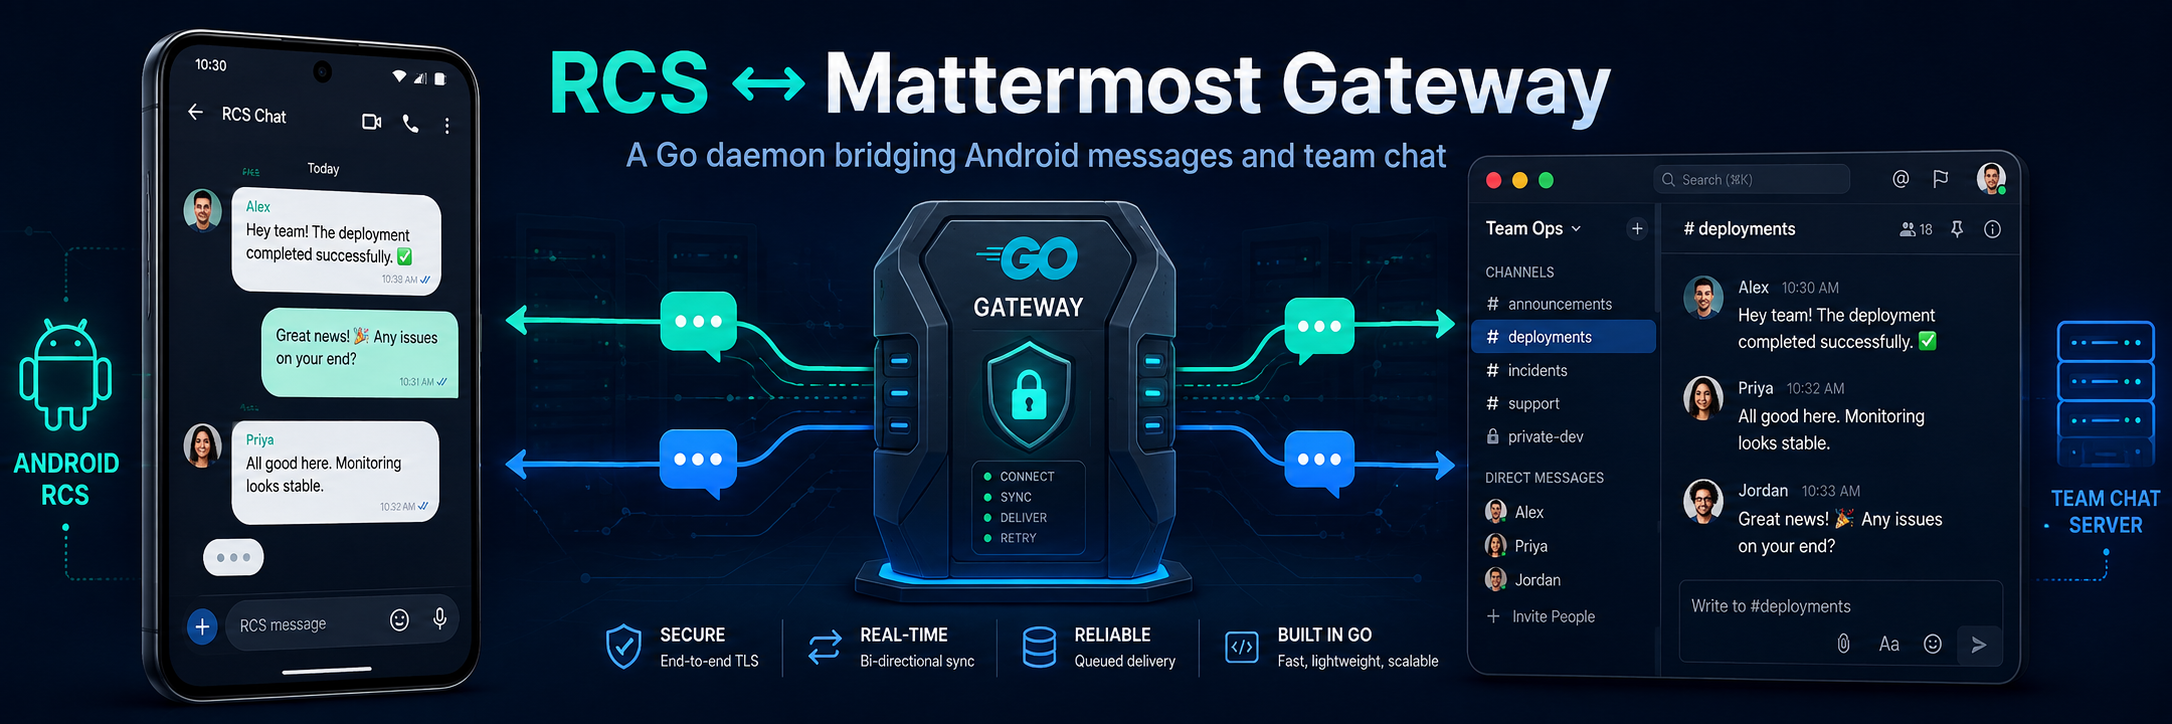
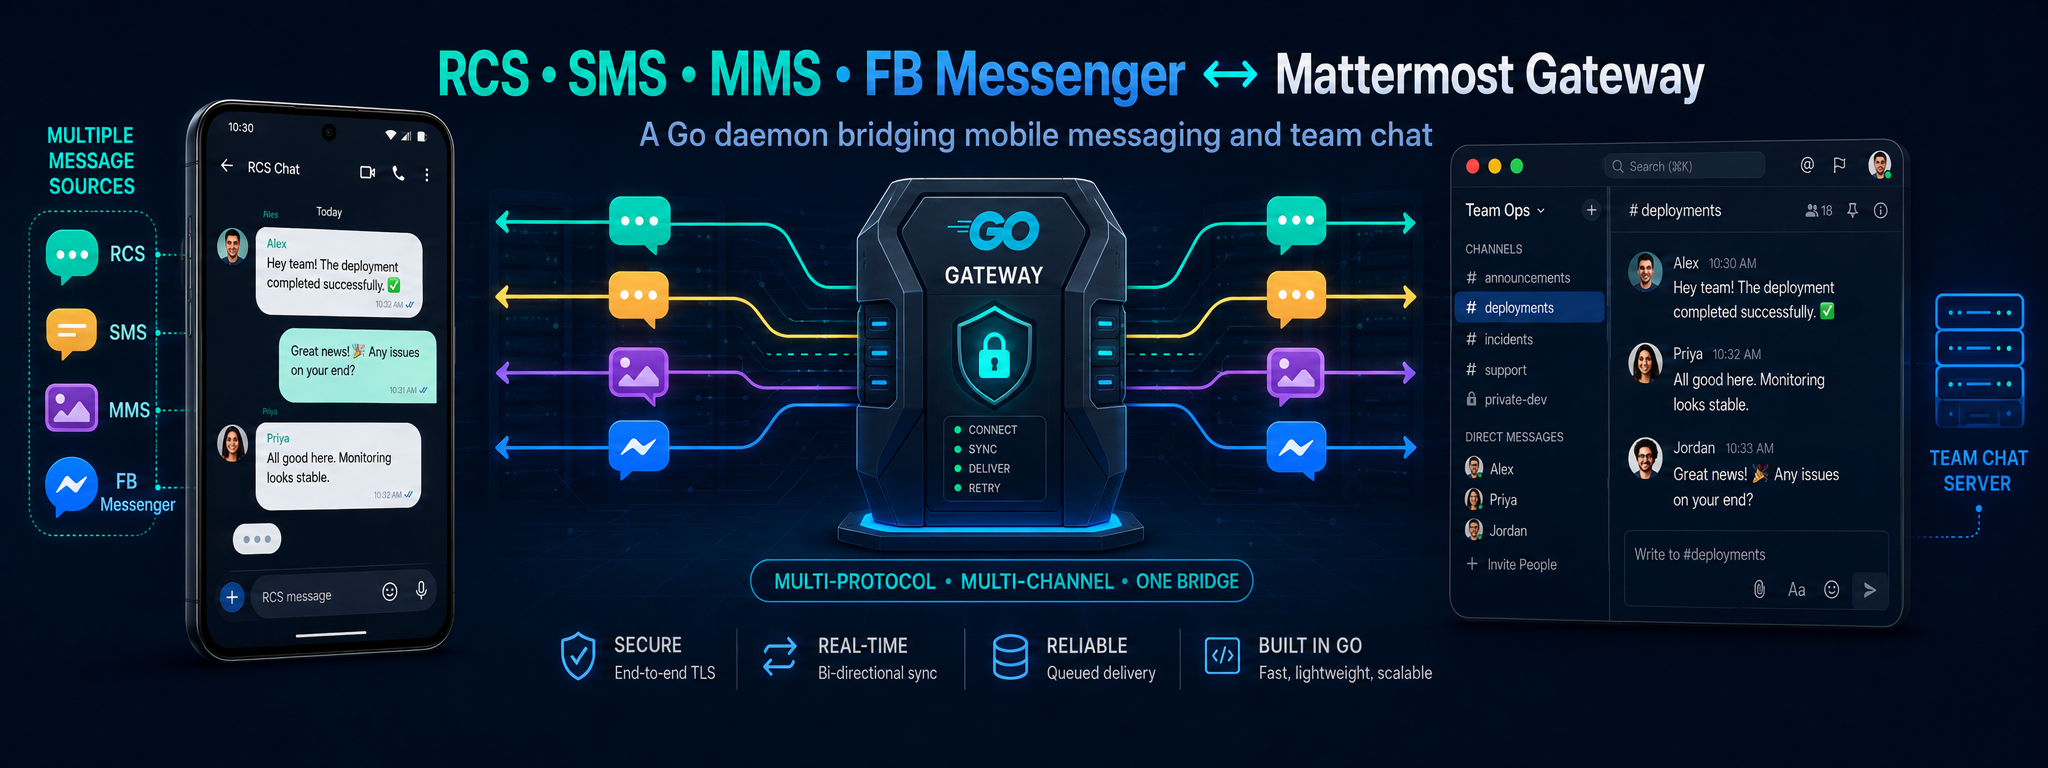
completed tool rebranding

diff --git a/README.md b/README.md
@@ -1,23 +1,26 @@
 <p align="center">
-  <img src="images/rcs_gateway_banner.png" alt="RCS ↔ Mattermost Gateway" width="100%">
+  <img src="images/msggw_banner.png" alt="Messaging ↔ Mattermost Gateway" width="100%">
 </p>
 
-# rcs_gateway
+# msggw
 
-**RCS messages to Mattermost server gateway.**
+**SMS, MMS and RCS to Mattermost gateway — more messaging platforms planned.**
 
-`rcs_gateway` is a small self-hosted Go daemon (`rcs-mm_gw`) that surfaces SMS, MMS and —
-most importantly — **RCS** conversations from an Android phone inside a Mattermost server,
-and lets you reply to them straight from Mattermost.
+`msggw` is a small self-hosted Go daemon (`msg-gw`) that surfaces SMS, MMS and — most
+importantly — **RCS** conversations from an Android phone inside a Mattermost server, and lets
+you reply to them straight from Mattermost. It started life as `rcs_gateway`, focused purely on
+RCS; the project has since been renamed because the goal is broader: one gateway bridging
+several messaging platforms into Mattermost, with Facebook Messenger planned as a future
+addition.
 
 ```text
-Android phone / Google Messages
-            ⇅
-      SMS / MMS / RCS
-            ⇅
-       bridge daemon
-            ⇅
-        Mattermost
+Android phone / Google Messages          Facebook Messenger (planned)
+            ⇅                                        ⇅
+      SMS / MMS / RCS                                 ⇅
+            ⇅                                         ⇅
+                       msggw bridge daemon
+                              ⇅
+                          Mattermost
 ```
 
 ---
@@ -55,7 +58,7 @@ Android phone / Google Messages
 **Written, not yet run against a real phone.**
 
 The daemon is implemented end to end — pairing, session persistence, inbound messages,
-outbound replies, media both ways, delivery state, SQLite mappings and deduplication. It
+outbound replies, media both ways, delivery state, storage mappings and deduplication. It
 builds statically (`CGO_ENABLED=0`), passes `go vet`, and its routing, storage, configuration
 and secret-handling logic are unit-tested.
 
@@ -70,13 +73,15 @@ the known limits, and [docs/TODO.md](docs/TODO.md) for what is left.
 
 ## Building
 
-Go 1.26 or newer. The build is fully static: `modernc.org/sqlite` is a pure-Go driver, so
-there is no cgo and no libc to match at deploy time.
+Go 1.27 or newer. The default backend is fully static: `modernc.org/sqlite` is a pure-Go
+driver, so there is no cgo and no libc to match at deploy time. The optional PostgreSQL backend
+is also a pure-Go driver (`jackc/pgx`), so static builds stay static regardless of which
+storage backend a deployment picks.
 
 ```bash
 cd src
 ./build.sh --dry-run          # compile only, discard the binary
-./build.sh /opt/bin           # build to /opt/bin/rcs-mm_gw
+./build.sh /opt/bin           # build to /opt/bin/msg-gw
 go test ./...
 ```
 
@@ -85,43 +90,43 @@ go test ./...
 ## Using it
 
 ```text
-rcs-mm_gw config sample     print a starting configuration
-rcs-mm_gw config check      validate it and resolve every secret it names
-rcs-mm_gw pair              pair with Google Messages by QR code
-rcs-mm_gw daemon            run the bridge
-rcs-mm_gw status            report on the pairing, the bot and the mappings
-rcs-mm_gw logout            revoke the pairing and delete the session
+msg-gw config sample     print a starting configuration
+msg-gw config check      validate it and resolve every secret it names
+msg-gw pair              pair with Google Messages by QR code
+msg-gw daemon            run the bridge
+msg-gw status            report on the pairing, the bot and the mappings
+msg-gw logout            revoke the pairing and delete the session
 ```
 
 A first run looks like this:
 
 ```bash
-rcs-mm_gw config sample > /etc/rcs_gateway/config.json
-$EDITOR /etc/rcs_gateway/config.json
-rcs-mm_gw config check
-rcs-mm_gw pair              # scan the QR code from Google Messages on the phone
-rcs-mm_gw daemon
+msg-gw config sample > /etc/msggw/config.json
+$EDITOR /etc/msggw/config.json
+msg-gw config check
+msg-gw pair              # scan the QR code from Google Messages on the phone
+msg-gw daemon
 ```
 
-`pair` shows a QR code — on the phone, **Google Messages → Settings → Device pairing → QR
-code scanner**. Each code is valid for 30 seconds and is refreshed automatically. Once the
-phone accepts it, the daemon reconnects with the stored session and prints the conversation
-list, which is the phase-1 success criterion proving the session actually works.
+`pair` shows a QR code — on the phone, **Google Messages → Settings → Device pairing → QR code
+scanner**. Each code is valid for 30 seconds and is refreshed automatically. Once the phone
+accepts it, the daemon reconnects with the stored session and prints the conversation list,
+which is the phase-1 success criterion proving the session actually works.
 
 On a terminal that cannot render a QR code, `pair --print-url` prints the URL instead.
 
-`status` reports what is on disk and, unless given `--offline`, checks that the Google
-session is still honoured and that the Mattermost token still authenticates.
+`status` reports what is on disk and, unless given `--offline`, checks that the Google session
+is still honoured and that the Mattermost token still authenticates.
 
 ---
 
 ## Configuration
 
-One JSON file, looked up at `--config`, then `/etc/rcs_gateway/config.json`, then
-`$XDG_CONFIG_HOME/rcs_gateway/config.json`. Full reference:
+One JSON file, looked up at `--config`, then `/etc/msggw/config.json`, then
+`$XDG_CONFIG_HOME/msggw/config.json`. Full reference:
 **[docs/CONFIGURATION.md](docs/CONFIGURATION.md)**.
 
-Two parts are worth knowing about up front.
+Three parts are worth knowing about up front.
 
 ### Where messages land is a routing decision
 
@@ -149,26 +154,48 @@ conversations somewhere other than the default:
 Phone numbers are compared with punctuation ignored, so `+1 (514) 555-1212` and
 `+15145551212` are the same number.
 
+### Storage backend is a choice, not a fixture
+
+The bridge keeps its mappings — which Mattermost thread stands for which conversation, and
+which post stands for which message — behind `database/sql`, so the backend is pluggable:
+
+```text
+sqlite    (default)  a single file under state_dir; what the daemon has actually
+                      been run against, sufficient for one person's message volume
+postgres              for an operator who wants the state store on its own server,
+                      under its own backup and HA story
+```
+
+```json
+"database_driver": "postgres",
+"database_dsn_ref": "vault:secrets/msggw#database_dsn"
+```
+
+Switching backends does not migrate existing data — each keeps its own schema version, so pick
+one before first run. See [Storage backend](docs/CONFIGURATION.md#storage-backend) for the
+full picture.
+
 ### Credentials are references, never values
 
 No secret is written into the configuration file. Each one names where to fetch it from:
 
 ```text
-env:MM_BOT_TOKEN                        environment variable
-file:/etc/rcs_gateway/mm.token          plain file, must be 0600
-encoded:/var/lib/rcs_gateway/gm.enc     helperFunctions-encoded file
-encoded:/path/to/file#PASSPHRASE_VAR    ... with the passphrase from an env var
-vault:secrets/rcs_gateway#bot_token     HashiCorp Vault KV, via vaultLib
-literal:xoxb-...                        inline (discouraged)
+env:MM_BOT_TOKEN                    environment variable
+file:/etc/msggw/mm.token            plain file, must be 0600
+encoded:/var/lib/msggw/gm.enc       helperFunctions-encoded file
+encoded:/path/to/file#PASSPHRASE_VAR ... with the passphrase from an env var
+vault:secrets/msggw#bot_token       HashiCorp Vault KV, via vaultLib
+literal:xoxb-...                    inline (discouraged)
 ```
 
 The Google Messages session must use a *writable* scheme — `file:`, `encoded:` or `vault:` —
 because `libgm` refreshes its auth token while running and the new one has to be persisted;
 otherwise every restart would need a re-pairing. The configuration rejects `env:` and
-`literal:` for that field.
+`literal:` for that field. A PostgreSQL DSN (`database_dsn_ref`) does not need to be writable,
+since the daemon never rewrites it.
 
-`rcs-mm_gw config check` resolves every reference and reports where each secret came from,
-without ever printing its value.
+`msg-gw config check` resolves every reference and reports where each secret came from, without
+ever printing its value.
 
 ---
 
@@ -182,6 +209,9 @@ without ever printing its value.
 Build a self-hosted gateway allowing SMS, MMS and **RCS** conversations from an Android phone
 to appear in Mattermost, with bidirectional replies. The critical requirement is **RCS
 support** — any solution restricted to Android's conventional SMS APIs is insufficient.
+Beyond the Android transports, the longer-term goal is a gateway that isn't tied to a single
+messaging platform: **Facebook Messenger** support is planned as a future addition, using the
+same routing and storage machinery already built for Google Messages.
 
 ### Why not an SMS gateway
 
@@ -222,6 +252,11 @@ protocol, so the daemon behaves conceptually like Google Messages for Web, excep
 is a Go daemon instead of a browser. It therefore carries genuine RCS traffic rather than
 downgrading messages to SMS.
 
+Google Messages is the first transport, not the only one planned. `internal/gmessages` is kept
+isolated from `internal/bridge` and `internal/mattermost` specifically so that a future
+transport — Facebook Messenger being the next candidate — can be added as its own package
+without touching the routing, storage or Mattermost-facing code.
+
 ### Architecture
 
 ```text
@@ -240,7 +275,7 @@ downgrading messages to SMS.
                            │ paired session
                            │
                  ┌─────────▼─────────┐
-                 │    rcs-mm_gw      │
+                 │      msg-gw       │
                  │                   │
                  │     Go daemon     │
                  │                   │
@@ -305,7 +340,7 @@ updates, edits (if supported) and attachment correlation.
 **Incoming SMS/RCS**
 
 ```text
-Remote contact → Google Messages → libgm event → rcs-mm_gw
+Remote contact → Google Messages → libgm event → msg-gw
       → lookup conversation mapping → Mattermost thread
 ```
 
@@ -314,7 +349,7 @@ If no Mattermost thread exists yet, the bridge creates one and stores the mappin
 **Reply from Mattermost**
 
 ```text
-Mattermost user → reply in mapped thread → Mattermost event → rcs-mm_gw
+Mattermost user → reply in mapped thread → Mattermost event → msg-gw
       → lookup Google conversation ID → libgm.SendMessage(...)
       → Google Messages / RCS → recipient
 ```
@@ -361,18 +396,22 @@ src/
     │   ├── bridge.go  routing.go  conversations.go
     │   ├── inbound.go  outbound.go  delivery.go
     │
-    └── storage/                SQLite mappings
-        ├── sqlite.go  conversations.go  messages.go
+    └── storage/                SQLite and PostgreSQL mappings
+        ├── db.go  sqlite.go  postgres.go
+        ├── conversations.go  messages.go
 ```
 
-The daemon stays deliberately small: no PostgreSQL, Redis, Kafka or RabbitMQ. SQLite is
-sufficient for the expected message volume and mapping requirements, and the driver is
-`modernc.org/sqlite` so the binary stays static.
+`internal/storage` is written against `database/sql` and `?` placeholders only, with a small
+rebind step for PostgreSQL's numbered placeholders, so `conversations.go` and `messages.go`
+are shared unchanged between backends — see [Storage backend](#storage-backend-is-a-choice-not-a-fixture).
+SQLite remains the default and the one exercised against real message volume; the driver is
+`modernc.org/sqlite`, so the binary stays static even without PostgreSQL.
 
 Everything that knows about the Google Messages protocol lives in `internal/gmessages`, and
 everything about Mattermost in `internal/mattermost`; neither imports the other. When Google
 changes the protocol — the project's main maintenance risk — the damage is contained to one
-package.
+package. The same isolation is what makes future transports (Facebook Messenger) additive
+rather than invasive.
 
 ### Persistent state
 
@@ -394,6 +433,9 @@ CREATE TABLE messages (
 );
 ```
 
+The same schema is created on both the SQLite and PostgreSQL backends; each keeps its own
+schema-version bookkeeping, so switching backends starts from empty rather than migrating.
+
 Later additions: RCS delivery state, attachment metadata, reactions, reply relationships and
 sender identity in group conversations.
 
@@ -402,16 +444,14 @@ sender identity in group conversations.
 The daemon pairs with Google Messages the same way Google Messages for Web or any other
 linked device does; the user approves the pairing from Google Messages on the phone. Session
 credentials are then persisted so normal operation needs no repeated interactive
-authentication, with restrictive filesystem permissions (and ideally optional support for an
-external secret store later).
-
-Planned command structure:
+authentication, with restrictive filesystem permissions and optional support for an external
+secret store (Vault).
 
 ```text
-rcs-mm_gw pair
-rcs-mm_gw daemon
-rcs-mm_gw status
-rcs-mm_gw logout
+msg-gw pair
+msg-gw daemon
+msg-gw status
+msg-gw logout
 ```
 
 ### Deployment
@@ -421,11 +461,11 @@ Linux host
 │
 ├── Mattermost
 │
-└── rcs-mm_gw
+└── msg-gw
        │
-       ├── persistent state
+       ├── persistent state       /var/lib/msggw
        ├── Google Messages session
-       └── SQLite database
+       └── SQLite or PostgreSQL database
 ```
 
 The Android phone does not need to be on the same LAN. It only needs Google Messages, working
@@ -438,11 +478,12 @@ SMS/RCS service, Internet connectivity, and a valid paired-device relationship.
    session handling, breaking the bridge until `libgm` catches up. This is the primary
    maintenance risk.
 2. **RCS is Google-Messages dependent** — if the phone stops using Google Messages as its
-   messaging client, the solution may stop working.
+   messaging client, that transport stops working; this does not affect other transports as
+   they are added.
 3. **Session revocation** — Google can unlink paired sessions, so the daemon needs
    session-health detection, clear logs, a `status` command and easy re-pairing.
 4. **Duplicate messages** — reconnects and event replay can repeat events; deduplicate on the
-   Google Messages message ID before posting to Mattermost.
+   source message ID before posting to Mattermost.
 5. **Mattermost loop prevention** — the bridge must ignore its own bot user ID,
    delivery-status posts and system-generated posts.
 6. **Group RCS** — group chats add senders, display names, sender IDs, group titles and member
@@ -450,6 +491,9 @@ SMS/RCS service, Internet connectivity, and a valid paired-device relationship.
 7. **Licensing** — `mautrix/gmessages` / `libgm` is **AGPL-3.0**, which is why this project is
    also licensed under AGPL-3.0-or-later; the implications must still be reviewed before
    offering the bridge as a network service to third parties.
+8. **Multi-platform scope creep** — each additional transport (Facebook Messenger, and any
+   others down the line) brings its own protocol risk and maintenance burden; transports are
+   added one at a time, each with its own isolated package, rather than speculatively.
 
 ### MVP phases
 
@@ -461,9 +505,13 @@ Do not start with full SMS/MMS/RCS parity — build the smallest vertical slice 
 | 2 | **Receive one message** — Google Messages event → stdout/log | An incoming SMS or RCS message is logged with conversation ID, message ID, sender, body and type |
 | 3 | **Mattermost posting** — add the Mattermost bot integration | An incoming RCS message appears in Mattermost |
 | 4 | **Mattermost reply** — map thread back to conversation, `libgm.SendMessage()` | A reply typed in Mattermost arrives on the remote phone as RCS |
-| 5 | **Persistence** — SQLite mappings, deduplication, restart-safe mappings, reconnect handling | Mappings survive restarts, no duplicate posts |
+| 5 | **Persistence** — storage mappings, deduplication, restart-safe mappings, reconnect handling | Mappings survive restarts, no duplicate posts |
 | 6 | **Media** — inbound/outbound attachments, MIME handling, file uploads both ways | Images cross the bridge in both directions |
 | 7 | **Message semantics** — delivery state, reactions, replies/quoting, read state, typing indicators, group conversations | Richer RCS features are reflected in Mattermost |
+
+Facebook Messenger (and any further transport) is deliberately **not** on this list: it is
+planned as a follow-on phase, added once the Google Messages transport is proven against a
+real phone.
 
 ### First milestone
 
@@ -490,7 +538,7 @@ The trade-off is explicit and accepted:
 | Document | Contents |
 |----------|----------|
 | [docs/SOLUTION.md](docs/SOLUTION.md) | Full design document (authoritative) |
-| [docs/CONFIGURATION.md](docs/CONFIGURATION.md) | Configuration reference: routing, secrets, every key |
+| [docs/CONFIGURATION.md](docs/CONFIGURATION.md) | Configuration reference: routing, storage backends, secrets, every key |
 | [docs/ROADMAP.md](docs/ROADMAP.md) | Planned features and target releases |
 | [docs/CHANGELOG.md](docs/CHANGELOG.md) | Release history |
 | [docs/TODO.md](docs/TODO.md) | Pending tasks |
@@ -503,8 +551,8 @@ The trade-off is explicit and accepted:
 This project is released under the **GNU Affero General Public License v3.0 or later** — see
 [LICENSE](LICENSE).
 
-Note that `libgm` (from `mautrix/gmessages`), the intended Google Messages client library, is
-also distributed under **AGPL-3.0**; see [Risks and caveats](#risks-and-caveats).
+Note that `libgm` (from `mautrix/gmessages`), the Google Messages client library, is also
+distributed under **AGPL-3.0**; see [Risks and caveats](#risks-and-caveats).
 
 ---
 
@@ -512,4 +560,4 @@ also distributed under **AGPL-3.0**; see [Risks and caveats](#risks-and-caveats)
 
 J.F. Gratton — <jean-francois@famillegratton.net>
 
-Repository: <https://git.famillegratton.net:3000/mainline/rcs_gateway.git>
+Repository: <https://git.famillegratton.net:3000/mainline/msggw.git>
